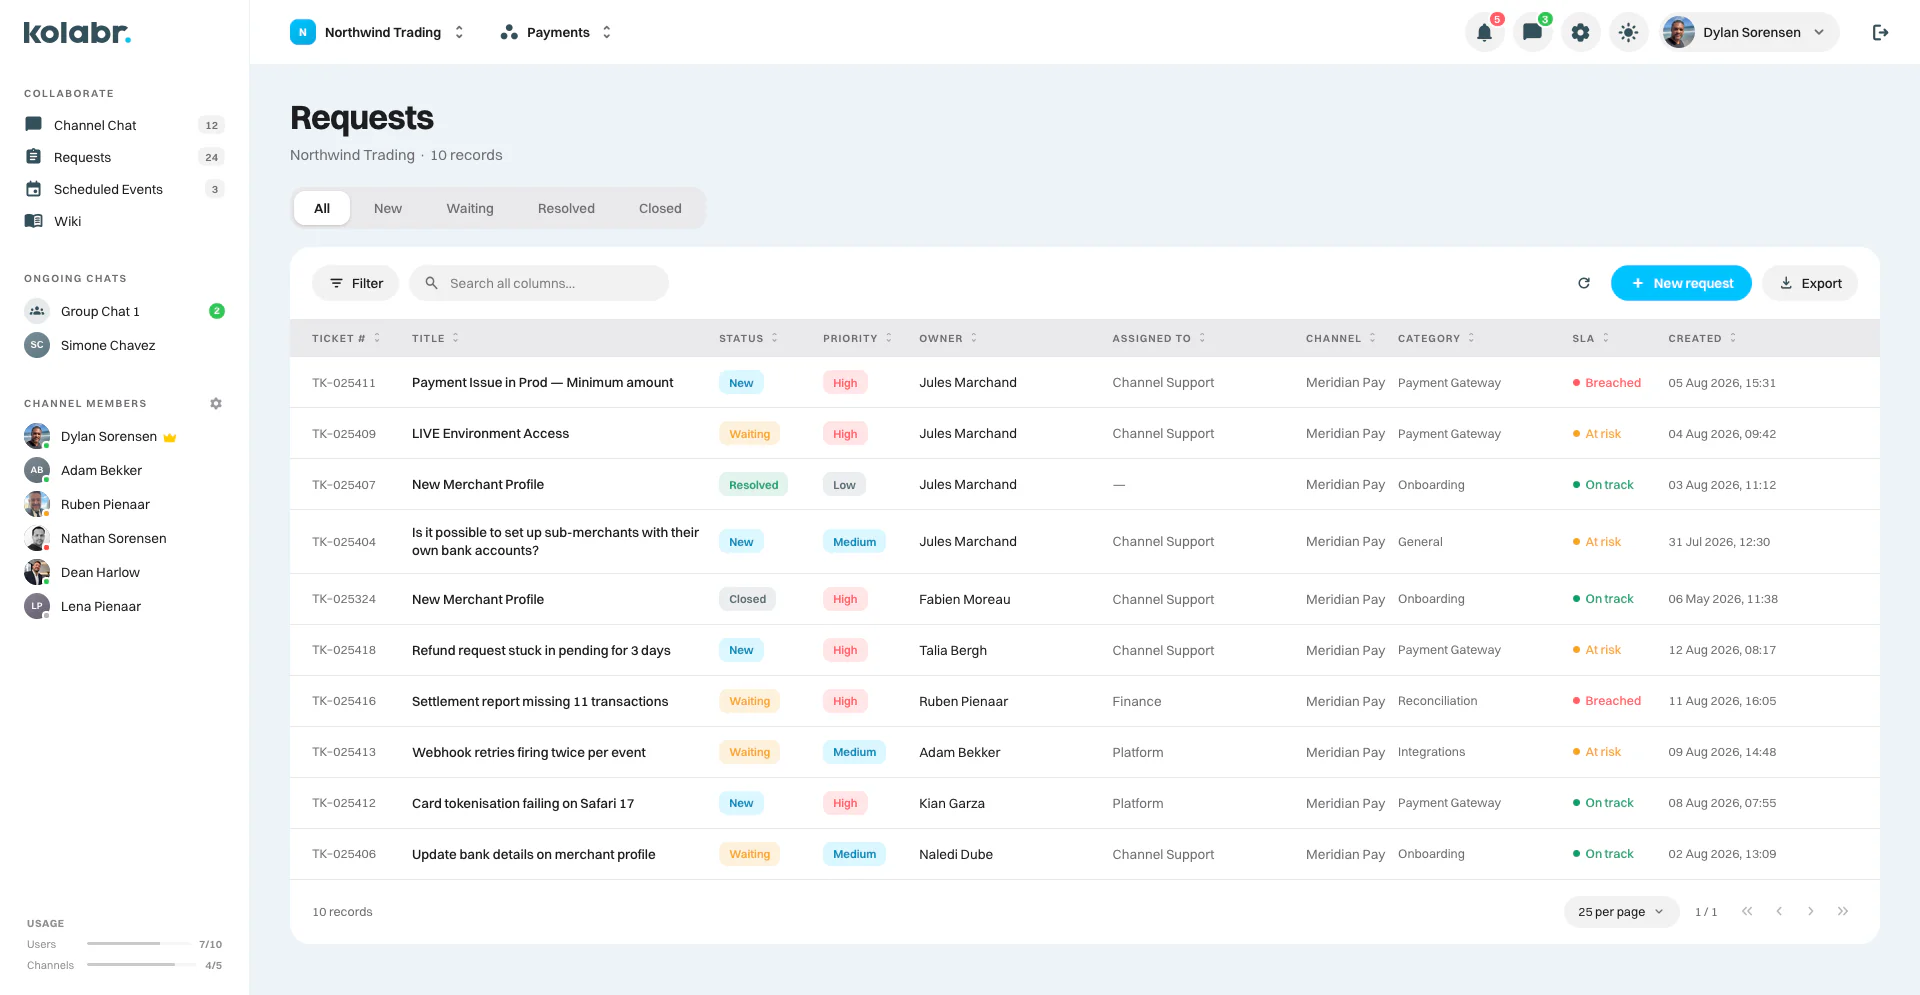
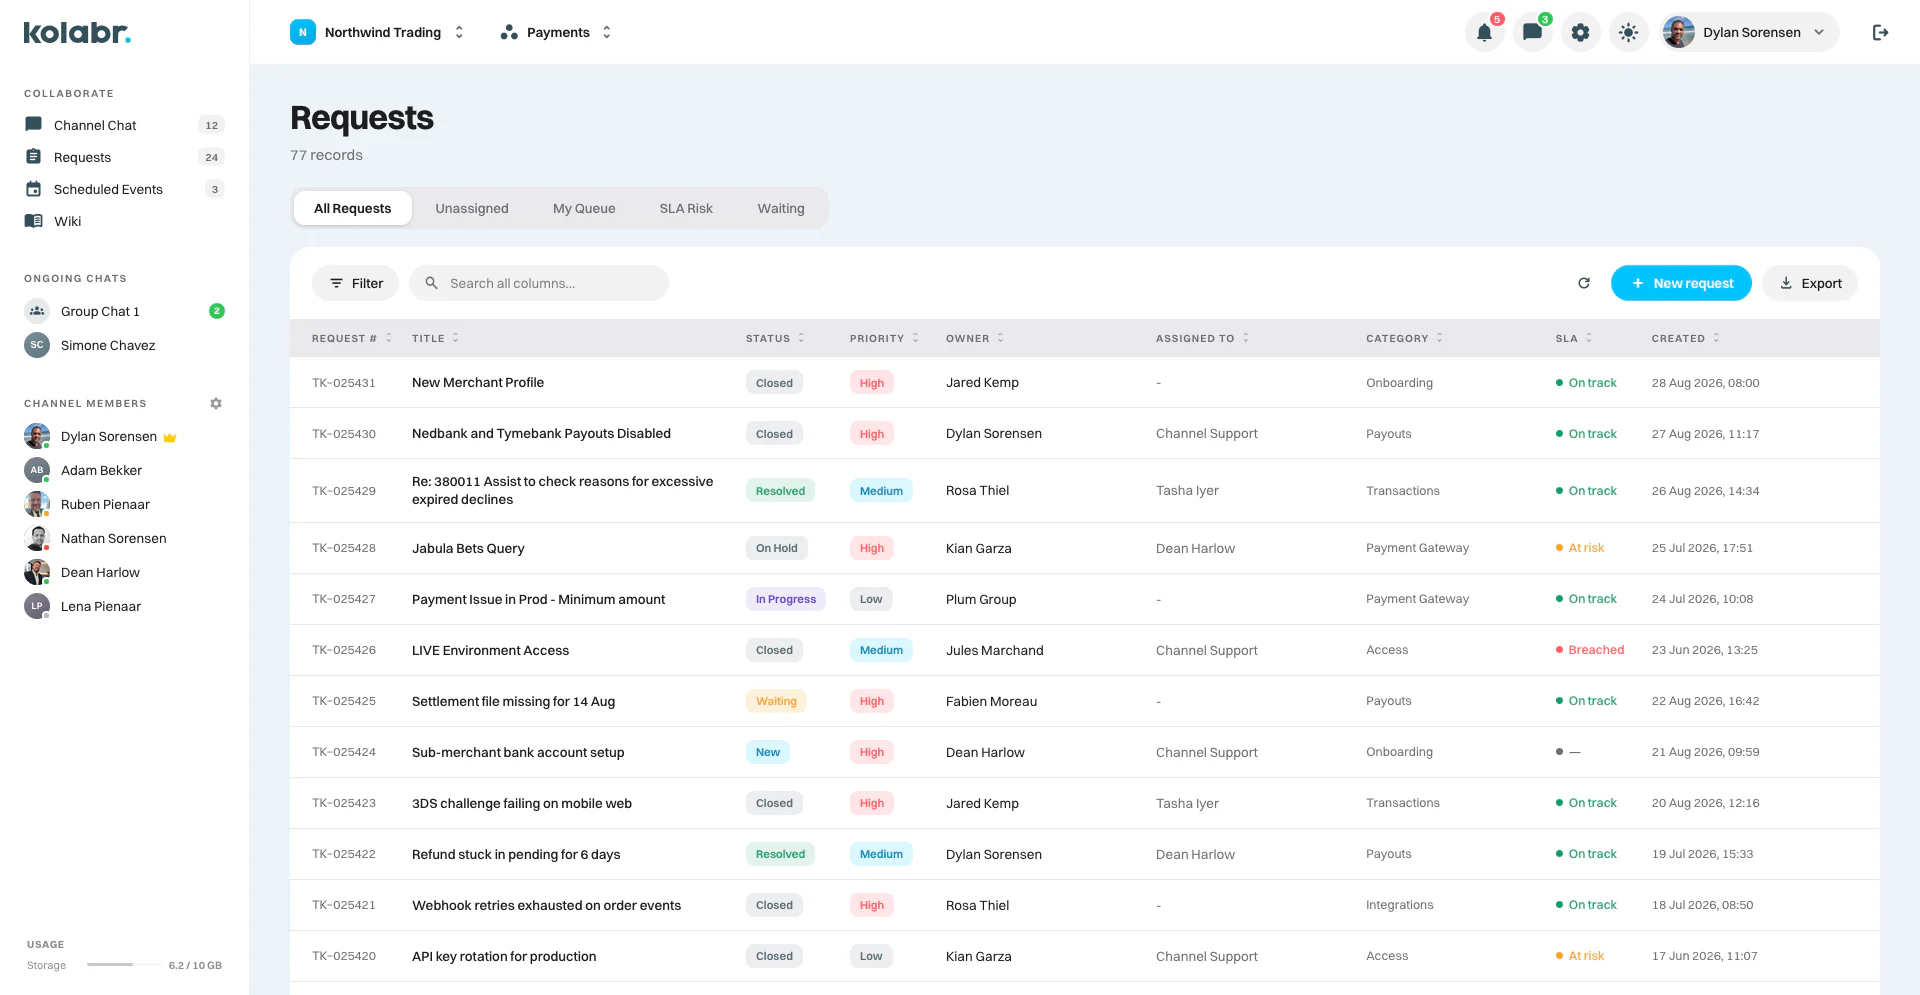
Requests: the recapture goes in
Peach Group is now Plum Group, so the last old company name is out of the
screenshots. The list is scoped to one channel, the column reads REQUEST #
rather than TICKET #, and the channel column is gone, which is what a
sealed channel means.

The alt text drops the channel column with it.

diff --git a/app/(site)/product/requests/page.tsx b/app/(site)/product/requests/page.tsx
@@ -38,7 +38,7 @@ export default function RequestsPage() {
           className="mt-16"
           image={screenRequests}
           // Design alt said "ticket number"; Kolabr's items are requests (Dom's copy rule).
-          alt="The Requests list: request number, title, status, priority, owner, assigned team, channel, category, SLA state and created date for ten requests"
+          alt="The Requests list for one channel: request number, title, status, priority, owner, assigned team, category, SLA state and created date"
         />
       </ProductHero>
 
